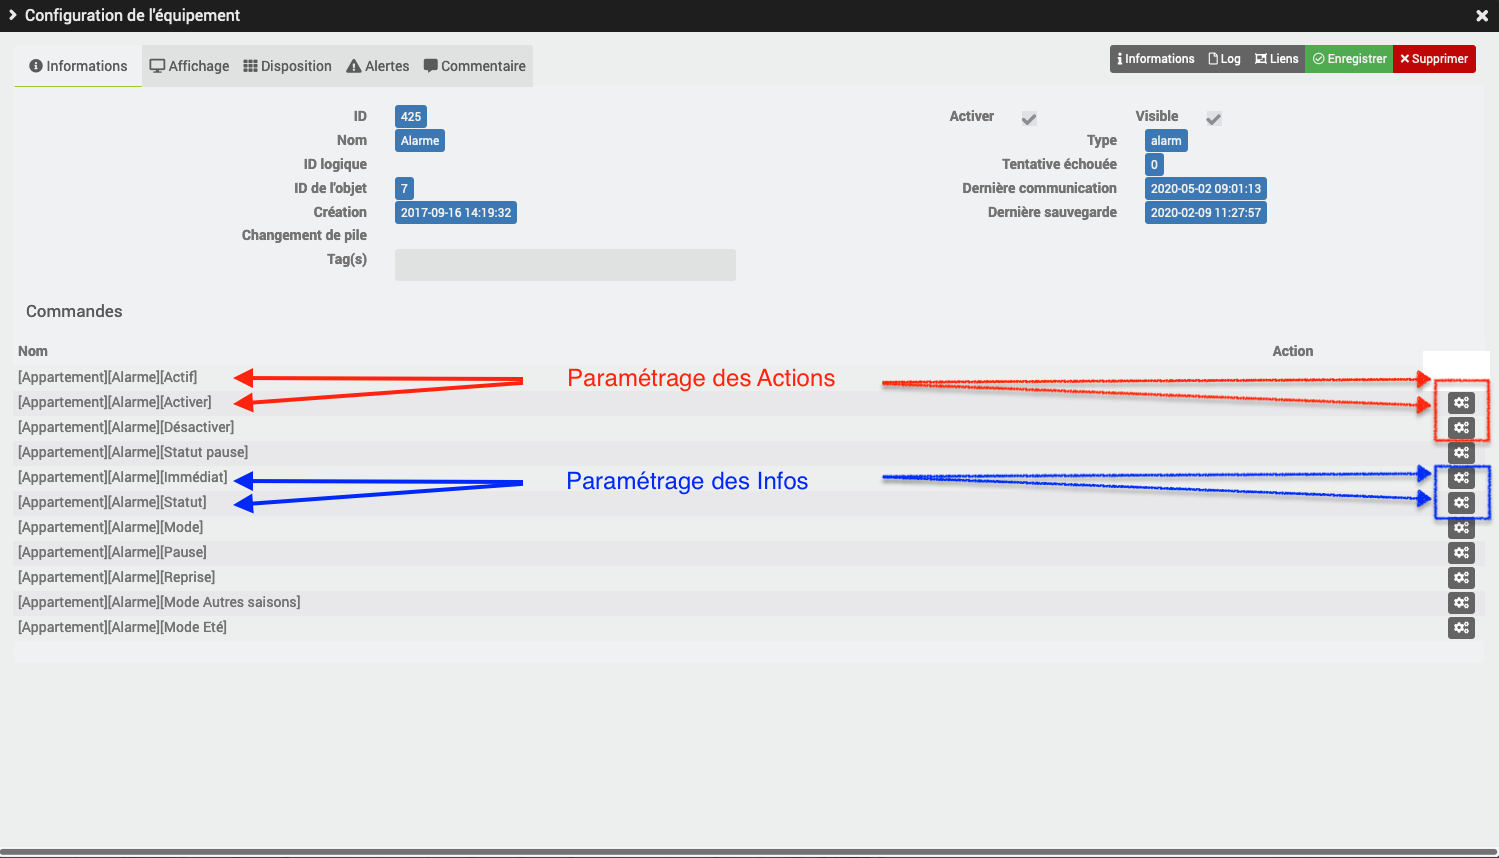
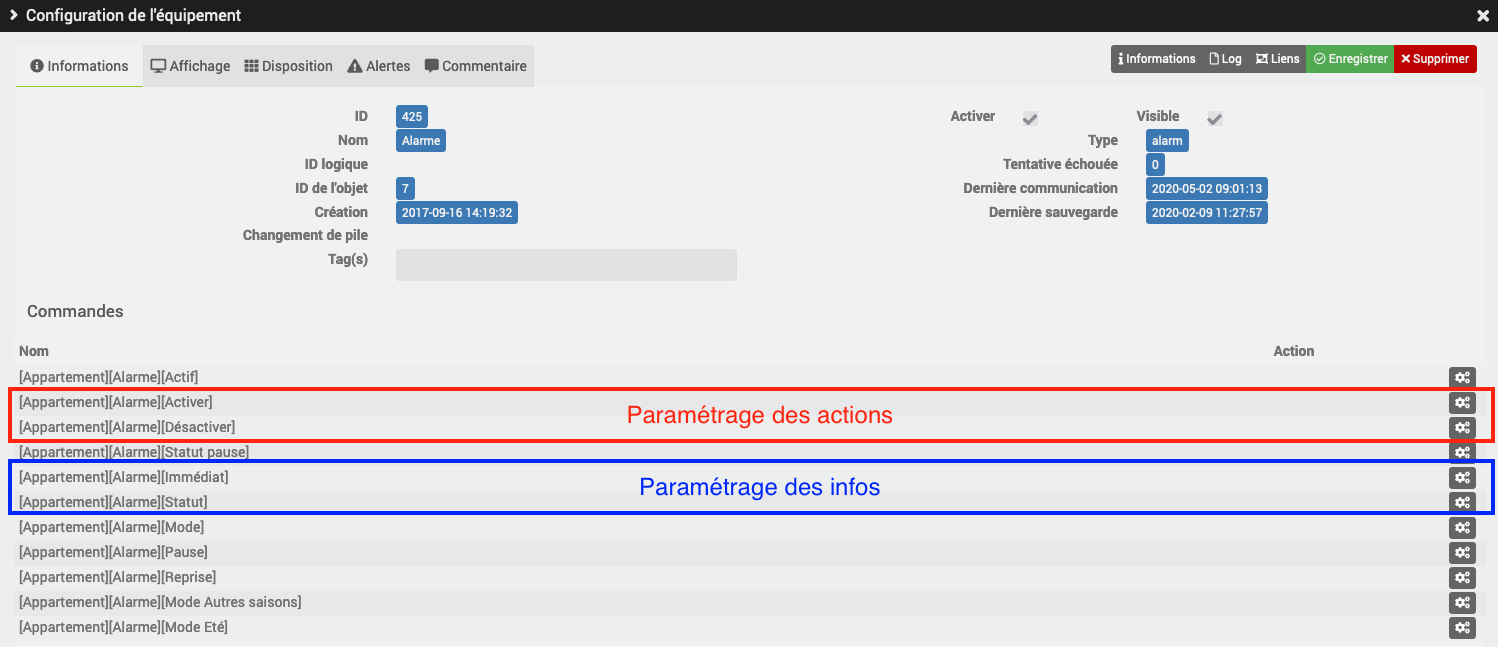
Fin ajout info actions

Changed region(s): [[0.0, 0.0, 1.0, 1.0], [0.0, 0.34, 0.0921, 0.3709]]

diff --git a/fr_FR/HELP_config_plugin_alarm.md b/fr_FR/HELP_config_plugin_alarm.md
@@ -22,12 +22,11 @@ Le paramétrage va se faire en plusieurs étapes
 # Paramétrage des actions
 
 <p><img src="../img/help/config_alarm_4.png" alt="Aide 4" /></p>
-* Cliquer sur la roue crantée en face de la commande <b> Fléche en rouge </b>
-* Ensuite dans l'onglet paramétrer les infos suivantes dans l'onglet <b><i>"Affichage"</i></b><br/>
+* Cliquer sur la roue crantée en face de la commande <b>Activer</b>  (flèche en jaune)
+* Ensuite sélectionner l'onglet <b><i>"Affichage"</i></b> (flèche en violet)<br/>
 <p><img src="../img/help/config_alarm_5.png" alt="Aide 4" /></p><br/>
 
-* Ajouter les variables ci-dessous en cliquant sur le bouton <b><i>"Ajouter"</i></b> en premier <br/>
-
+* Ajouter les variables ci-dessous en cliquant sur le bouton <b><i>"Ajouter"</i></b> (flèche en orange)<br/>
 <CENTER>
     <TABLE width="60%">
         <TR>
@@ -49,37 +48,10 @@ Le paramétrage va se faire en plusieurs étapes
     </TABLE>
 </CENTER>
 
+* Répéter la même opération en cliquant sur la roue crantée en face de la commande <b>Désactiver</b>  (flèche en rose)
 
 
 
-* <b>En Rouge</b> : Sous types
-	* Type : info
-	* Sous-Type : Binaire
-
-* <b>En vert</b> : Options
-    * Afficher : Cocher cette case
-    * Historiser : Permet d'historiser l'équipement (En option suivant les besoins)
-
-* <b>En bleue</b> : Options
-    * roue cranté permet de choisir le type de widget et les options
-
-## Exemple de paramétrage
-Voici l'exemple voulu
-<p><img src="../img/exemple/d/multi_binaire.png" alt="Résultat" /></p>
-
-## Les commandes d'action
-voir l'exemple dans la doc <a href="HELP_config_action.html">Aide pour le paramétrage des widgets de type action</a>
-
-# Choix du widget
-Cliquer sur la roue crantée (voir image ci-dessous),
-<p><img src="../img/AIDE_CONFIG_INFO_4.png" alt="Aide 4" /></p>
-
-Cliquer sur affichage, sélectionner ensuite le widget voulu dans la partie bleu (grâce à la liste déroulante)
-<p><img src="../img/AIDE_CONFIG_INFO_2.png" alt="Aide 2" /></p>
-
-# Ajout des paramètres
-Cliquer sur le bouton <i>Ajouter</i> pour ajouter les différents paramètres du widget, ensuite se référer sur chacun des widgets pour avoir les variables
-<p><img src="../img/AIDE_CONFIG_INFO_3.png" alt="Aide 3" /></p>
 
 <hr />
 # Changelog
